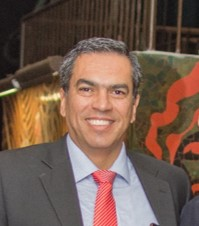
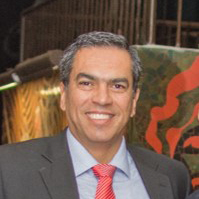
Added max-height/width for author images to help keep them at the right size.  Adjusted the author image to be square, resized teaser images for the insights to use 530x300 dimensions

diff --git a/_sass/app.scss b/_sass/app.scss
@@ -1349,6 +1349,8 @@ div.career-list {
     position: absolute;
     top: 40px;
     left: 0;
+    max-width: 100px;
+    max-height: 100px;
   }
   .AD--name {
     font-size: 22px;
